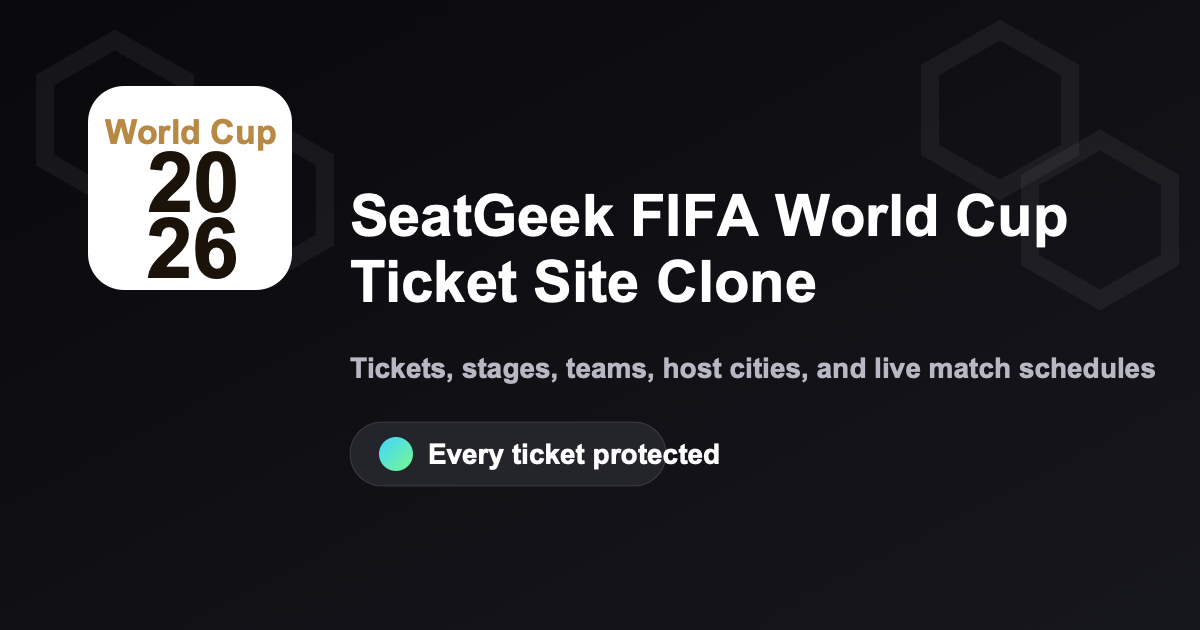
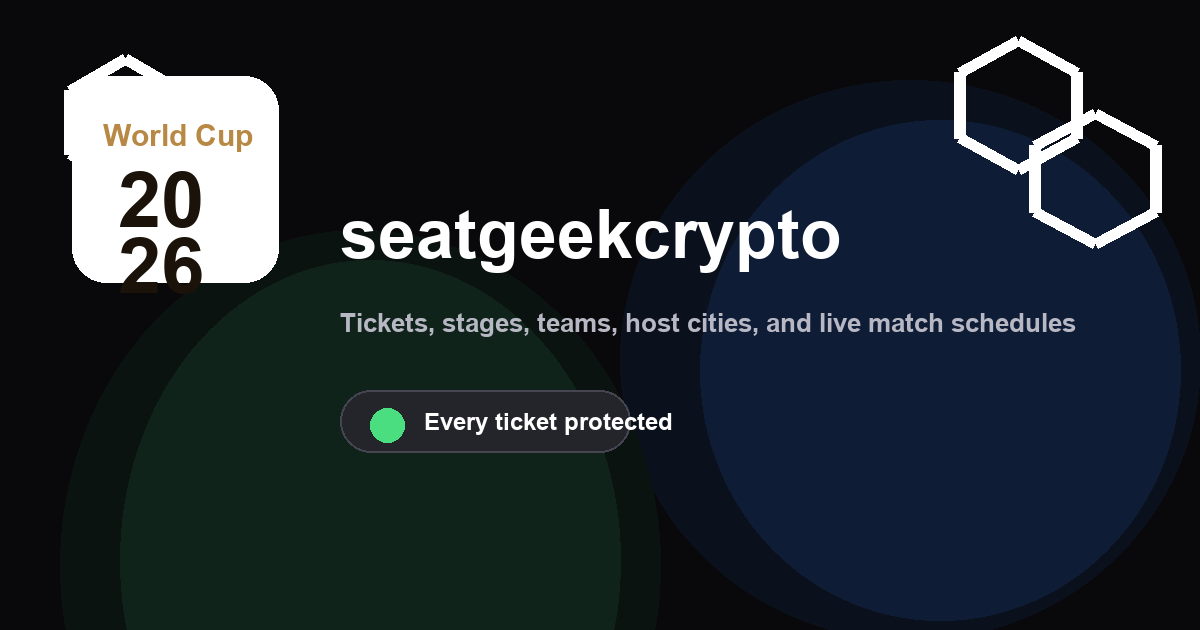
Update site title to seatgeekcrypto

diff --git a/index.html b/index.html
@@ -5,13 +5,13 @@
     <link rel="canonical" href="https://seatgeekcrypto.com" />
     <link rel="icon" type="image/svg+xml" href="/favicon.svg" />
     <meta name="viewport" content="width=device-width, initial-scale=1.0" />
-    <title>SeatGeek FIFA World Cup Ticket Site Clone</title>
+    <title>seatgeekcrypto</title>
     <meta
       name="description"
       content="Browse World Cup 2026 tickets, host cities, stages, teams, and match schedules in a SeatGeek-inspired experience."
     />
     <meta property="og:type" content="website" />
-    <meta property="og:title" content="SeatGeek FIFA World Cup Ticket Site Clone" />
+    <meta property="og:title" content="seatgeekcrypto" />
     <meta
       property="og:description"
       content="Browse World Cup 2026 tickets, host cities, stages, teams, and match schedules in a SeatGeek-inspired experience."
@@ -23,7 +23,7 @@
     <meta property="og:image:width" content="1200" />
     <meta property="og:image:height" content="630" />
     <meta name="twitter:card" content="summary_large_image" />
-    <meta name="twitter:title" content="SeatGeek FIFA World Cup Ticket Site Clone" />
+    <meta name="twitter:title" content="seatgeekcrypto" />
     <meta
       name="twitter:description"
       content="Browse World Cup 2026 tickets, host cities, stages, teams, and match schedules in a SeatGeek-inspired experience."